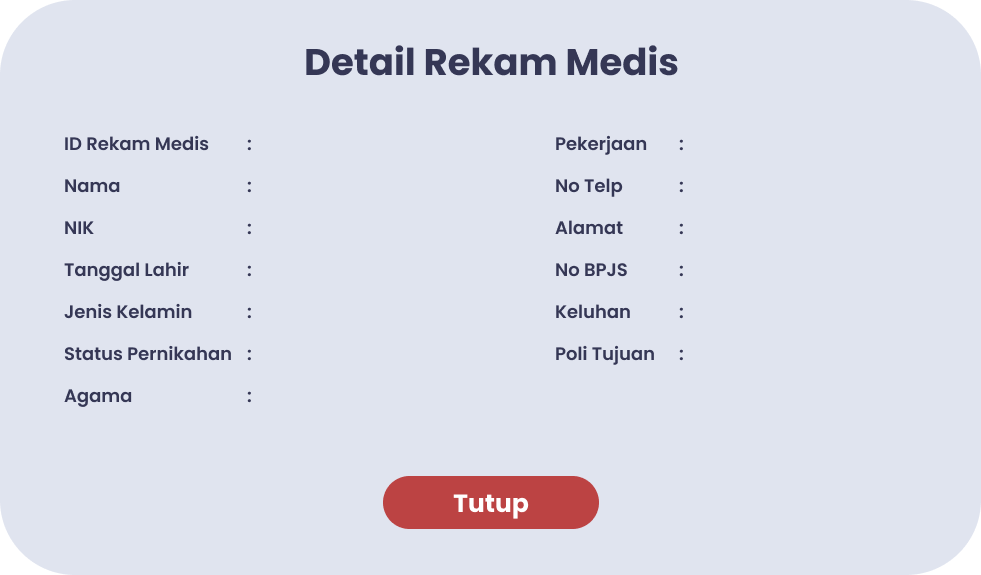
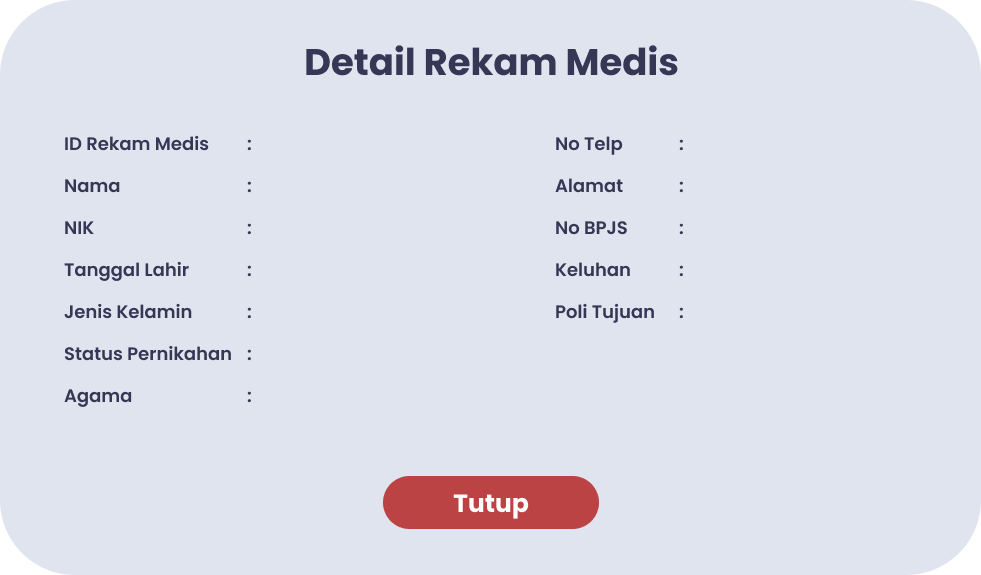
update detail rekam medis

diff --git a/src/permata/medika/clinic/center/MainPage.java b/src/permata/medika/clinic/center/MainPage.java
@@ -98,7 +98,6 @@ public class MainPage extends javax.swing.JFrame {
         detail_nobpjs_pasien1 = new javax.swing.JLabel();
         detail_alamat_pasien1 = new javax.swing.JLabel();
         detail_no_telepon_pasien1 = new javax.swing.JLabel();
-        detail_pekerjaan_pasien1 = new javax.swing.JLabel();
         detail_agama_pasien1 = new javax.swing.JLabel();
         detail_status_pernikahan_pasien1 = new javax.swing.JLabel();
         detail_jenis_kelamin_pasien1 = new javax.swing.JLabel();
@@ -470,32 +469,27 @@ public class MainPage extends javax.swing.JFrame {
         detail_poli_tujuan_pasien1.setFont(new java.awt.Font("Helvetica Neue", 1, 16)); // NOI18N
         detail_poli_tujuan_pasien1.setText("IDK001");
         detail_rekam_medis_owner.add(detail_poli_tujuan_pasien1);
-        detail_poli_tujuan_pasien1.setBounds(850, 470, 120, 20);
+        detail_poli_tujuan_pasien1.setBounds(850, 434, 120, 20);
 
         detail_keluhan_pasien1.setFont(new java.awt.Font("Helvetica Neue", 1, 16)); // NOI18N
         detail_keluhan_pasien1.setText("IDK001");
         detail_rekam_medis_owner.add(detail_keluhan_pasien1);
-        detail_keluhan_pasien1.setBounds(850, 430, 120, 20);
+        detail_keluhan_pasien1.setBounds(850, 390, 120, 20);
 
         detail_nobpjs_pasien1.setFont(new java.awt.Font("Helvetica Neue", 1, 16)); // NOI18N
         detail_nobpjs_pasien1.setText("-");
         detail_rekam_medis_owner.add(detail_nobpjs_pasien1);
-        detail_nobpjs_pasien1.setBounds(850, 390, 120, 20);
+        detail_nobpjs_pasien1.setBounds(850, 350, 120, 20);
 
         detail_alamat_pasien1.setFont(new java.awt.Font("Helvetica Neue", 1, 16)); // NOI18N
         detail_alamat_pasien1.setText("IDK001");
         detail_rekam_medis_owner.add(detail_alamat_pasien1);
-        detail_alamat_pasien1.setBounds(850, 350, 270, 20);
+        detail_alamat_pasien1.setBounds(850, 310, 270, 20);
 
         detail_no_telepon_pasien1.setFont(new java.awt.Font("Helvetica Neue", 1, 16)); // NOI18N
         detail_no_telepon_pasien1.setText("IDK001");
         detail_rekam_medis_owner.add(detail_no_telepon_pasien1);
-        detail_no_telepon_pasien1.setBounds(850, 310, 120, 20);
-
-        detail_pekerjaan_pasien1.setFont(new java.awt.Font("Helvetica Neue", 1, 16)); // NOI18N
-        detail_pekerjaan_pasien1.setText("IDK001");
-        detail_rekam_medis_owner.add(detail_pekerjaan_pasien1);
-        detail_pekerjaan_pasien1.setBounds(850, 260, 120, 20);
+        detail_no_telepon_pasien1.setBounds(850, 270, 120, 20);
 
         detail_agama_pasien1.setFont(new java.awt.Font("Helvetica Neue", 1, 16)); // NOI18N
         detail_agama_pasien1.setText("IDK001");
@@ -505,17 +499,17 @@ public class MainPage extends javax.swing.JFrame {
         detail_status_pernikahan_pasien1.setFont(new java.awt.Font("Helvetica Neue", 1, 16)); // NOI18N
         detail_status_pernikahan_pasien1.setText("IDK001");
         detail_rekam_medis_owner.add(detail_status_pernikahan_pasien1);
-        detail_status_pernikahan_pasien1.setBounds(410, 470, 120, 20);
+        detail_status_pernikahan_pasien1.setBounds(410, 476, 120, 20);
 
         detail_jenis_kelamin_pasien1.setFont(new java.awt.Font("Helvetica Neue", 1, 16)); // NOI18N
         detail_jenis_kelamin_pasien1.setText("IDK001");
         detail_rekam_medis_owner.add(detail_jenis_kelamin_pasien1);
-        detail_jenis_kelamin_pasien1.setBounds(410, 430, 120, 20);
+        detail_jenis_kelamin_pasien1.setBounds(410, 434, 120, 20);
 
         detail_tanggal_pasien1.setFont(new java.awt.Font("Helvetica Neue", 1, 16)); // NOI18N
         detail_tanggal_pasien1.setText("IDK001");
         detail_rekam_medis_owner.add(detail_tanggal_pasien1);
-        detail_tanggal_pasien1.setBounds(410, 390, 120, 20);
+        detail_tanggal_pasien1.setBounds(410, 392, 120, 20);
 
         detail_nik_pasien1.setFont(new java.awt.Font("Helvetica Neue", 1, 16)); // NOI18N
         detail_nik_pasien1.setText("IDK001");
@@ -3269,7 +3263,6 @@ public class MainPage extends javax.swing.JFrame {
     private javax.swing.JLabel detail_nobpjs_pasien1;
     private javax.swing.JLabel detail_password_karyawan;
     private javax.swing.JLabel detail_pekerjaan_pasien;
-    private javax.swing.JLabel detail_pekerjaan_pasien1;
     private javax.swing.JLabel detail_poli_dokter;
     private javax.swing.JLabel detail_poli_tujuan_pasien;
     private javax.swing.JLabel detail_poli_tujuan_pasien1;
